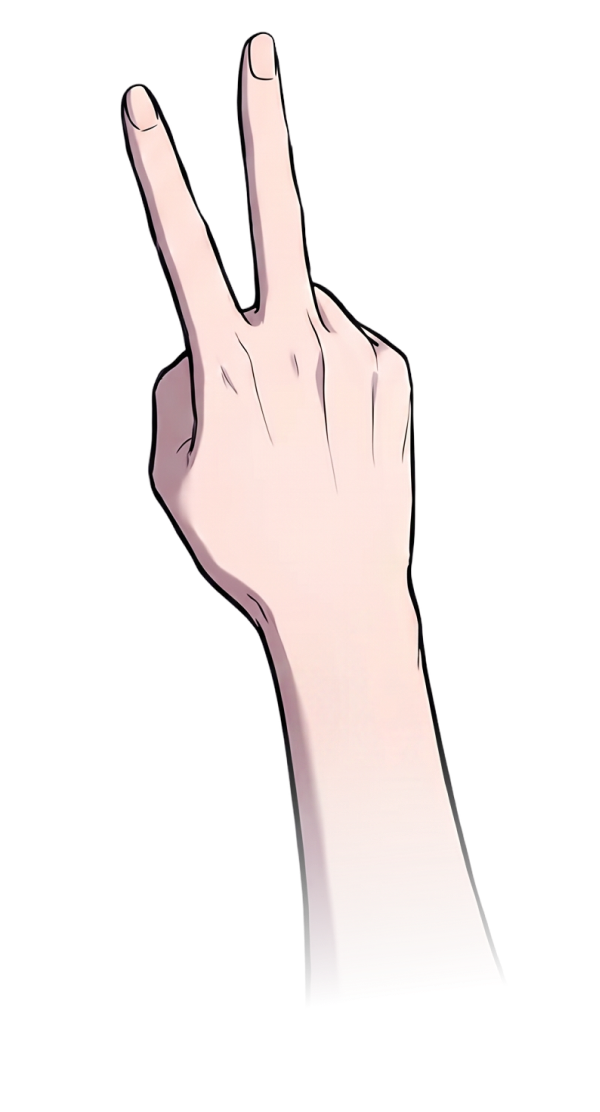
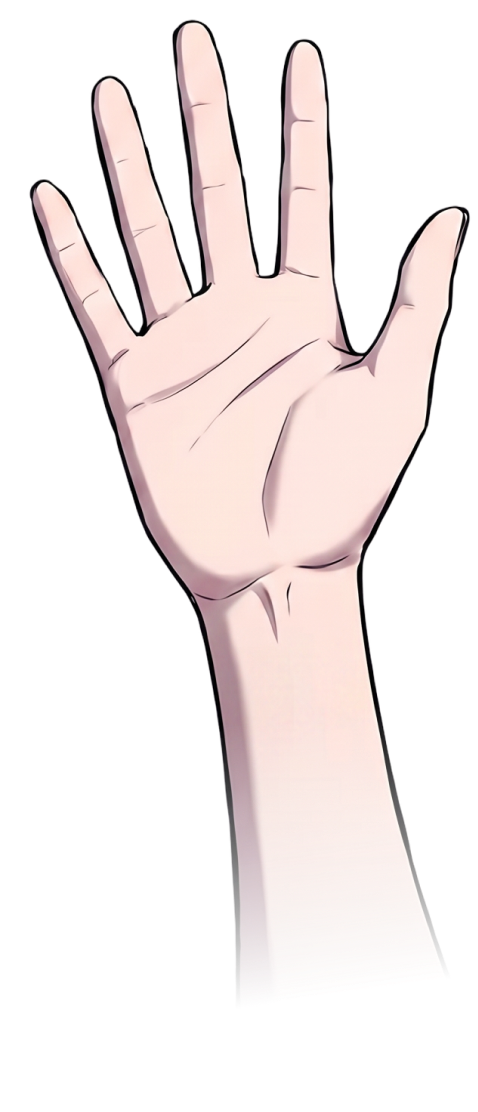
added срфтпштп play video particl

Changed region(s): [[0.0586, 0.0, 0.9958, 0.8867], [0.7908, 0.795, 0.8201, 0.8561], [0.4393, 0.3669, 0.4686, 0.3975]]

diff --git a/index.html b/index.html
@@ -1,5 +1,5 @@
 <!DOCTYPE html>
-<html lang="uk">
+<html lang="en">
 <head>
   <meta charset="UTF-8">
   <meta name="viewport" content="width=device-width, initial-scale=1.0">
@@ -30,11 +30,7 @@
     }
     
     video {position:absolute; top:0; left:0; width:100%; height:100%; object-fit:cover; transition: filter 0.3s ease;}
-    
-    /* Перший рівень затемнення (коли відео закінчилось) */
     video.paused-dark {filter: brightness(0.7) contrast(0.95);}
-    
-    /* Посилене затемнення під час гри руками */
     video.playing-dark {filter: brightness(0.3) contrast(0.95);}
 
     /* Початковий екран */
@@ -50,7 +46,7 @@
     }
     
     #handPointer {
-      position:absolute; top:56%; left:56%; width:22%; max-width: 50%; 
+      position:absolute; top:56%; left:56%; width:32%; max-width: 50%; 
       pointer-events: none; z-index: 11;
       animation: clickHandPhysics 2s infinite ease-in-out;
     }
@@ -76,11 +72,11 @@
     }
     #overlay.active { display: flex; opacity: 1; }
 
-    .hands {position: absolute; top: 0; left: 0; width: 100%; height: 85%; pointer-events: none;}
-    .hand {position: absolute; width:65%; max-width: 180px; opacity:0; transform-origin: center center;}
+    .hands {position: absolute; top: 0; left: 0; width: 100%; height: 75%; pointer-events: none;}
+    .hand {position: absolute; width:35%; max-width: 180px; opacity:0; transform-origin: center center;}
     
-    #handPlayer {bottom: 1%; right: 5%; transform: scale(1) rotate(-20deg);}
-    #handOpponent {top: -10%; left: 0%; transform: scale(0.9) rotate(160deg);}
+    #handPlayer {bottom: 1%; right: 5%; transform: scale(1.2) rotate(-20deg);}
+    #handOpponent {top: -10%; left: 0%; transform: scale(1) rotate(160deg);}
     
     .hand.shakePlayer {
       opacity: 1;
@@ -92,19 +88,19 @@
     }
 
     @keyframes shakeP {
-      0%, 100% { transform: scale(0.9) rotate(-20deg) translateY(0); }
-      50% { transform: scale(0.95) rotate(-10deg) translateY(-40px); }
+      0%, 100% { transform: scale(1) rotate(-20deg) translateY(0); }
+      50% { transform: scale(1.1) rotate(-10deg) translateY(-40px); }
     }
     @keyframes shakeOpp {
-      0%, 100% { transform: scale(0.8) rotate(160deg) translateY(0); }
-      50% { transform: scale(0.85) rotate(150deg) translateY(40px); }
+      0%, 100% { transform: scale(1) rotate(160deg) translateY(0); }
+      50% { transform: scale(1.1) rotate(150deg) translateY(40px); }
     }
 
-    #handPlayer.fadeIn { opacity:1; transform: scale(1) rotate(-20deg); filter: drop-shadow(0 0 15px rgba(255,255,255,0.6)); transition: all 0.2s ease-out; }
-    #handOpponent.fadeIn { opacity:1; transform: scale(0.89) rotate(160deg); filter: drop-shadow(0 0 15px rgba(255,255,255,0.6)); transition: all 0.2s ease-out; }
+    #handPlayer.fadeIn { opacity:1; transform: scale(1.5) rotate(-20deg); filter: drop-shadow(0 0 15px rgba(255,255,255,0.6)); transition: all 0.2s ease-out; }
+    #handOpponent.fadeIn { opacity:1; transform: scale(1.1) rotate(160deg); filter: drop-shadow(0 0 15px rgba(255,255,255,0.6)); transition: all 0.2s ease-out; }
     
     #result {
-      position: absolute; top: 35%; left: 50%; transform: translate(-50%, -50%) scale(0.1);
+      position: absolute; top: 40%; left: 50%; transform: translate(-50%, -50%) scale(0.1);
       color:#00ff22; font-size:14vw; font-weight: 900; opacity: 0;
       text-shadow: -3px -3px 0 #000, 3px -3px 0 #000, -3px 3px 0 #000, 3px 3px 0 #000, 0 0 25px rgba(0,255,34,0.7);
       margin: 0; text-align: center; font-style: italic; z-index: 6;
@@ -122,10 +118,7 @@
       transition: opacity 0.3s, transform 0.3s, box-shadow 0.3s;
     }
     
-    .choices img.scale-in {
-      opacity: 1;
-      transform: scale(1);
-    }
+    .choices img.scale-in { opacity: 1; transform: scale(1); }
 
     .choices img.idle-glow {
       animation: pulseShadowOnly 1.5s infinite ease-in-out;
@@ -147,15 +140,8 @@
     #finalScene img {position:absolute; opacity:0; transition: all 0.5s cubic-bezier(0.175, 0.885, 0.32, 1.275);}
     #finalScene img.show {opacity:1; transform: scale(1);}
     
-    #bubble {
-      top:25%; width:75%; max-width: 240px;
-      left: auto !important; right: 5%;
-      transform: scale(0.7);
-    }
-    #ctaBtn {
-      top:60%; left: 10%; transform: translateX(-50%) scale(0.7); width:100%; max-width: 380px; 
-      cursor:pointer; filter: drop-shadow(0 6px 20px rgba(0,0,0,0.6));
-    }
+    #bubble { top:25%; width:75%; max-width: 240px; left: auto !important; right: 5%; transform: scale(0.7); }
+    #ctaBtn { top:60%; left: 10%; transform: translateX(-50%) scale(0.7); width:100%; max-width: 380px; cursor:pointer; filter: drop-shadow(0 6px 20px rgba(0,0,0,0.6)); }
     #ctaBtn.show { transform: translateX(50%) scale(1.5); }
 
     #muteBtn {position:absolute; top:15px; right:15px; z-index:40; font-size:20px; cursor:pointer; background:rgba(255,255,255,0.8); border:none; border-radius:50%; width:40px; height:40px; display:flex; align-items:center; justify-content:center; box-shadow: 0 2px 5px rgba(0,0,0,0.2);}
@@ -172,6 +158,8 @@
   </div>
 
   <video id="bgVideo" muted playsinline style="display:none;"></video>
+  
+  <video id="nextVideoCache" muted playsinline preload="auto" style="display:none; width:1px; height:1px; opacity:0.01; pointer-events:none;"></video>
 
   <div id="overlay">
     <div class="hands">
@@ -182,9 +170,9 @@
     <h1 id="result">WIN</h1>
     
     <div class="choices">
-      <img id="choiceScissors" src="assets/scissors.png" onclick="play('scissors')" alt="Scissors">
-      <img id="choiceRock" src="assets/rock.png" onclick="play('rock')" alt="Rock">
       <img id="choicePaper" src="assets/paper.png" onclick="play('paper')" alt="Paper">
+      <img id="choiceRock" src="assets/rock.png" onclick="play('rock')" alt="Rock">
+      <img id="choiceScissors" src="assets/scissors.png" onclick="play('scissors')" alt="Scissors">
     </div>
   </div>
 
@@ -204,6 +192,7 @@
 
 <script>
 const bgVideo = document.getElementById("bgVideo");
+const nextVideoCache = document.getElementById("nextVideoCache"); // Кеш-відео плеєр
 const bgMusic = document.getElementById("bgMusic");
 const winSound = document.getElementById("winSound");
 
@@ -219,7 +208,7 @@ const opponentGestures = {
   scissors: "assets/opp_scissors.png" 
 };
 
-const choiceElements = ["choiceScissors", "choiceRock", "choicePaper"];
+const choiceElements = ["choicePaper", "choiceRock", "choiceScissors"];
 let gamePlaylist = []; 
 let secondVideoType = ""; 
 let round = 0;
@@ -257,16 +246,36 @@ function startGame() {
   document.getElementById("splash").style.display = "none";
   bgVideo.style.display = "block";
   if (!isMuted) bgMusic.play().catch(e => console.log("Аудіо заблоковано"));
-  loadRound();
+  
+  // Одразу запускаємо перший раунд
+  bgMusic.volume = 0.05;
+  bgVideo.src = gamePlaylist[0];
+  bgVideo.loop = true;
+  bgVideo.play();
+  preloadNextVideo(1); // Починаємо фонове завантаження раунду 2
+  
+  setTimeout(() => { showOverlay(); }, 500);
+}
+
+// Функція фонового підвантаження
+function preloadNextVideo(nextRoundIndex) {
+  if (nextRoundIndex < gamePlaylist.length) {
+    nextVideoCache.src = gamePlaylist[nextRoundIndex];
+    nextVideoCache.load(); // Мобільні примусово починають завантажувати шматок файлу
+  }
 }
 
 function loadRound() {
+  // Замість мережевого запиту ми просто беремо вже прогрітий src з кеш-плеєра
   bgVideo.src = gamePlaylist[round];
   bgVideo.loop = true; 
   bgVideo.className = ""; 
   bgMusic.volume = 0.05;
   bgVideo.play();
   
+  // Поки грається поточний раунд, заздалегідь вантажимо наступний (для round=1 завантажиться фінальне відео)
+  preloadNextVideo(round + 1);
+
   if (round < 2) {
     setTimeout(() => {
       showOverlay();
@@ -330,7 +339,15 @@ function play(choice) {
   bgVideo.pause();
   bgVideo.className = "playing-dark";
 
-  let opponent = (choice === "rock") ? "scissors" : (choice === "scissors") ? "paper" : "rock";
+  let opponent = "";
+  if (choice === "paper") {
+    opponent = "rock"; 
+  } else if (choice === "scissors") {
+    opponent = "paper"; 
+  } else if (choice === "rock") {
+    opponent = "scissors"; 
+  }
+
   const player = document.getElementById("handPlayer");
   const opp = document.getElementById("handOpponent");
 
@@ -343,6 +360,7 @@ function play(choice) {
   setTimeout(() => {
     player.className = "hand fadeIn";
     opp.className = "hand fadeIn";
+    
     player.src = playerGestures[choice];
     opp.src = opponentGestures[opponent];
 
@@ -352,7 +370,7 @@ function play(choice) {
         winSound.currentTime = 0;
         winSound.play();
       }
-    }, 150);
+    }, 600); 
 
   }, 1500);
 
@@ -374,10 +392,8 @@ function play(choice) {
       }
     }
     
-    // Запускаємо частинки
     triggerHeartParticles(targetYFactor);
 
-    // НОВЕ: Зміна відео відбувається ОДРАЗУ під час програвання партіклів
     setTimeout(() => {
       round++;
       if (round < 2) {